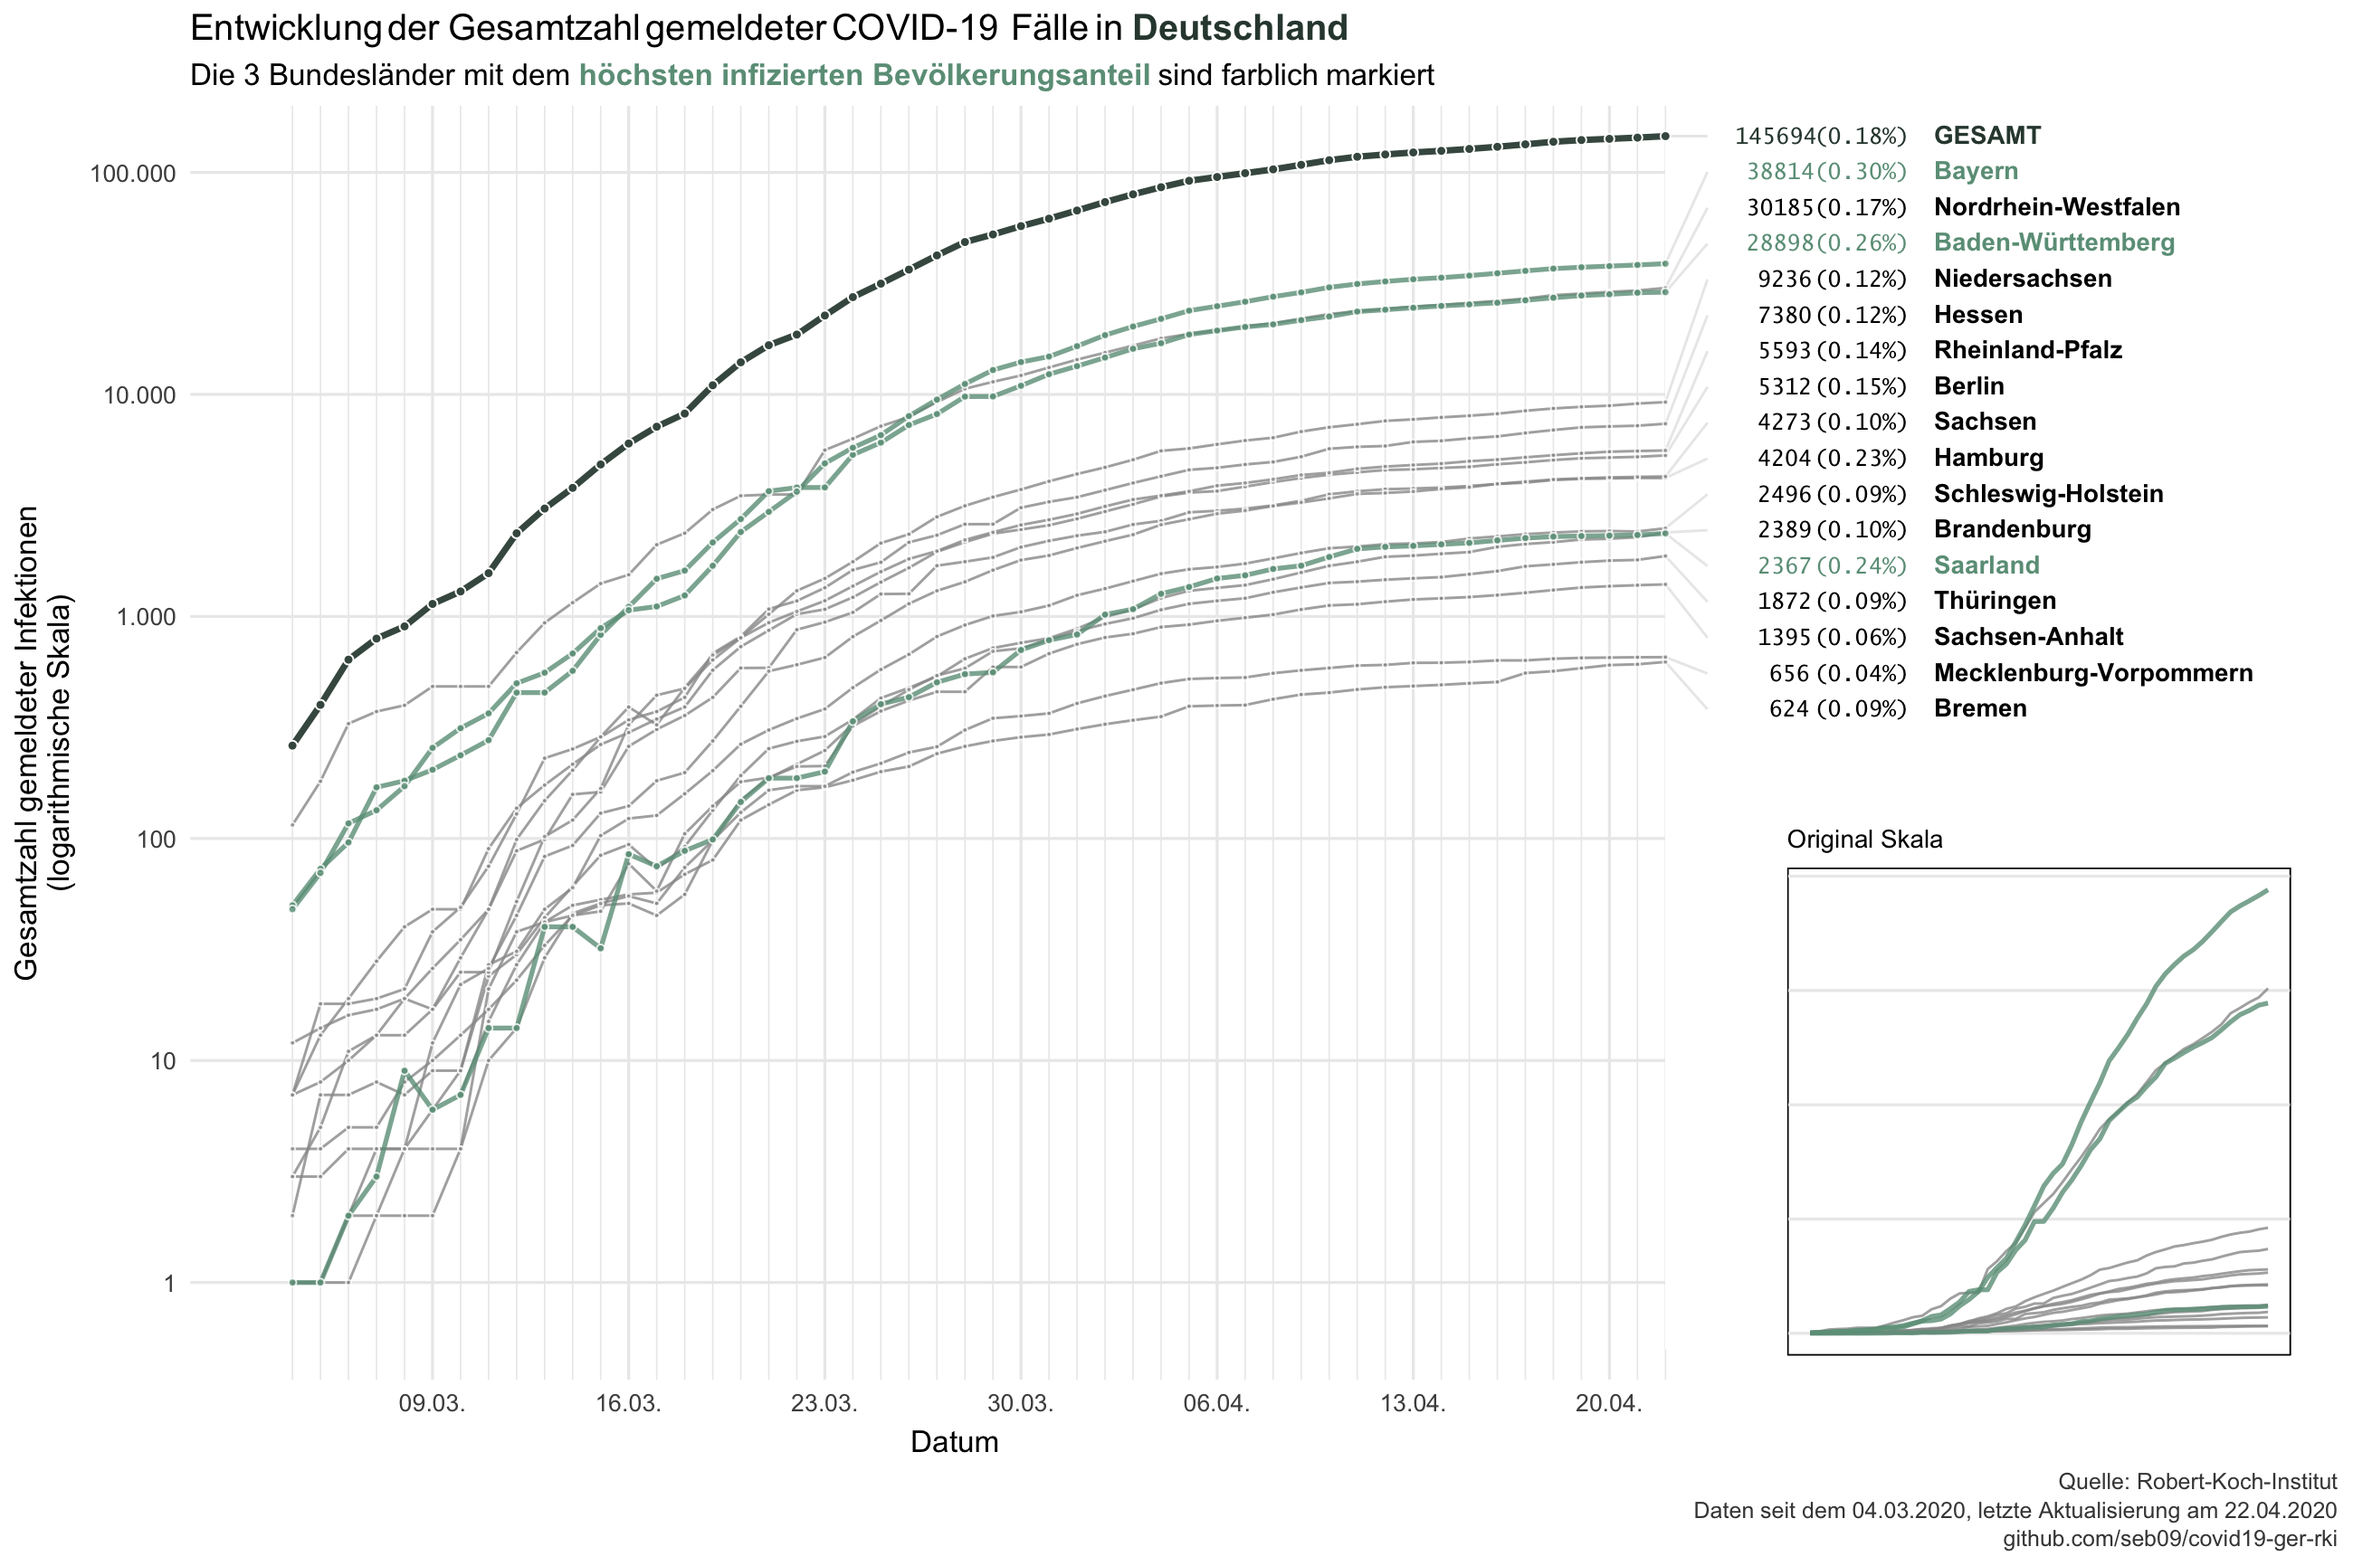
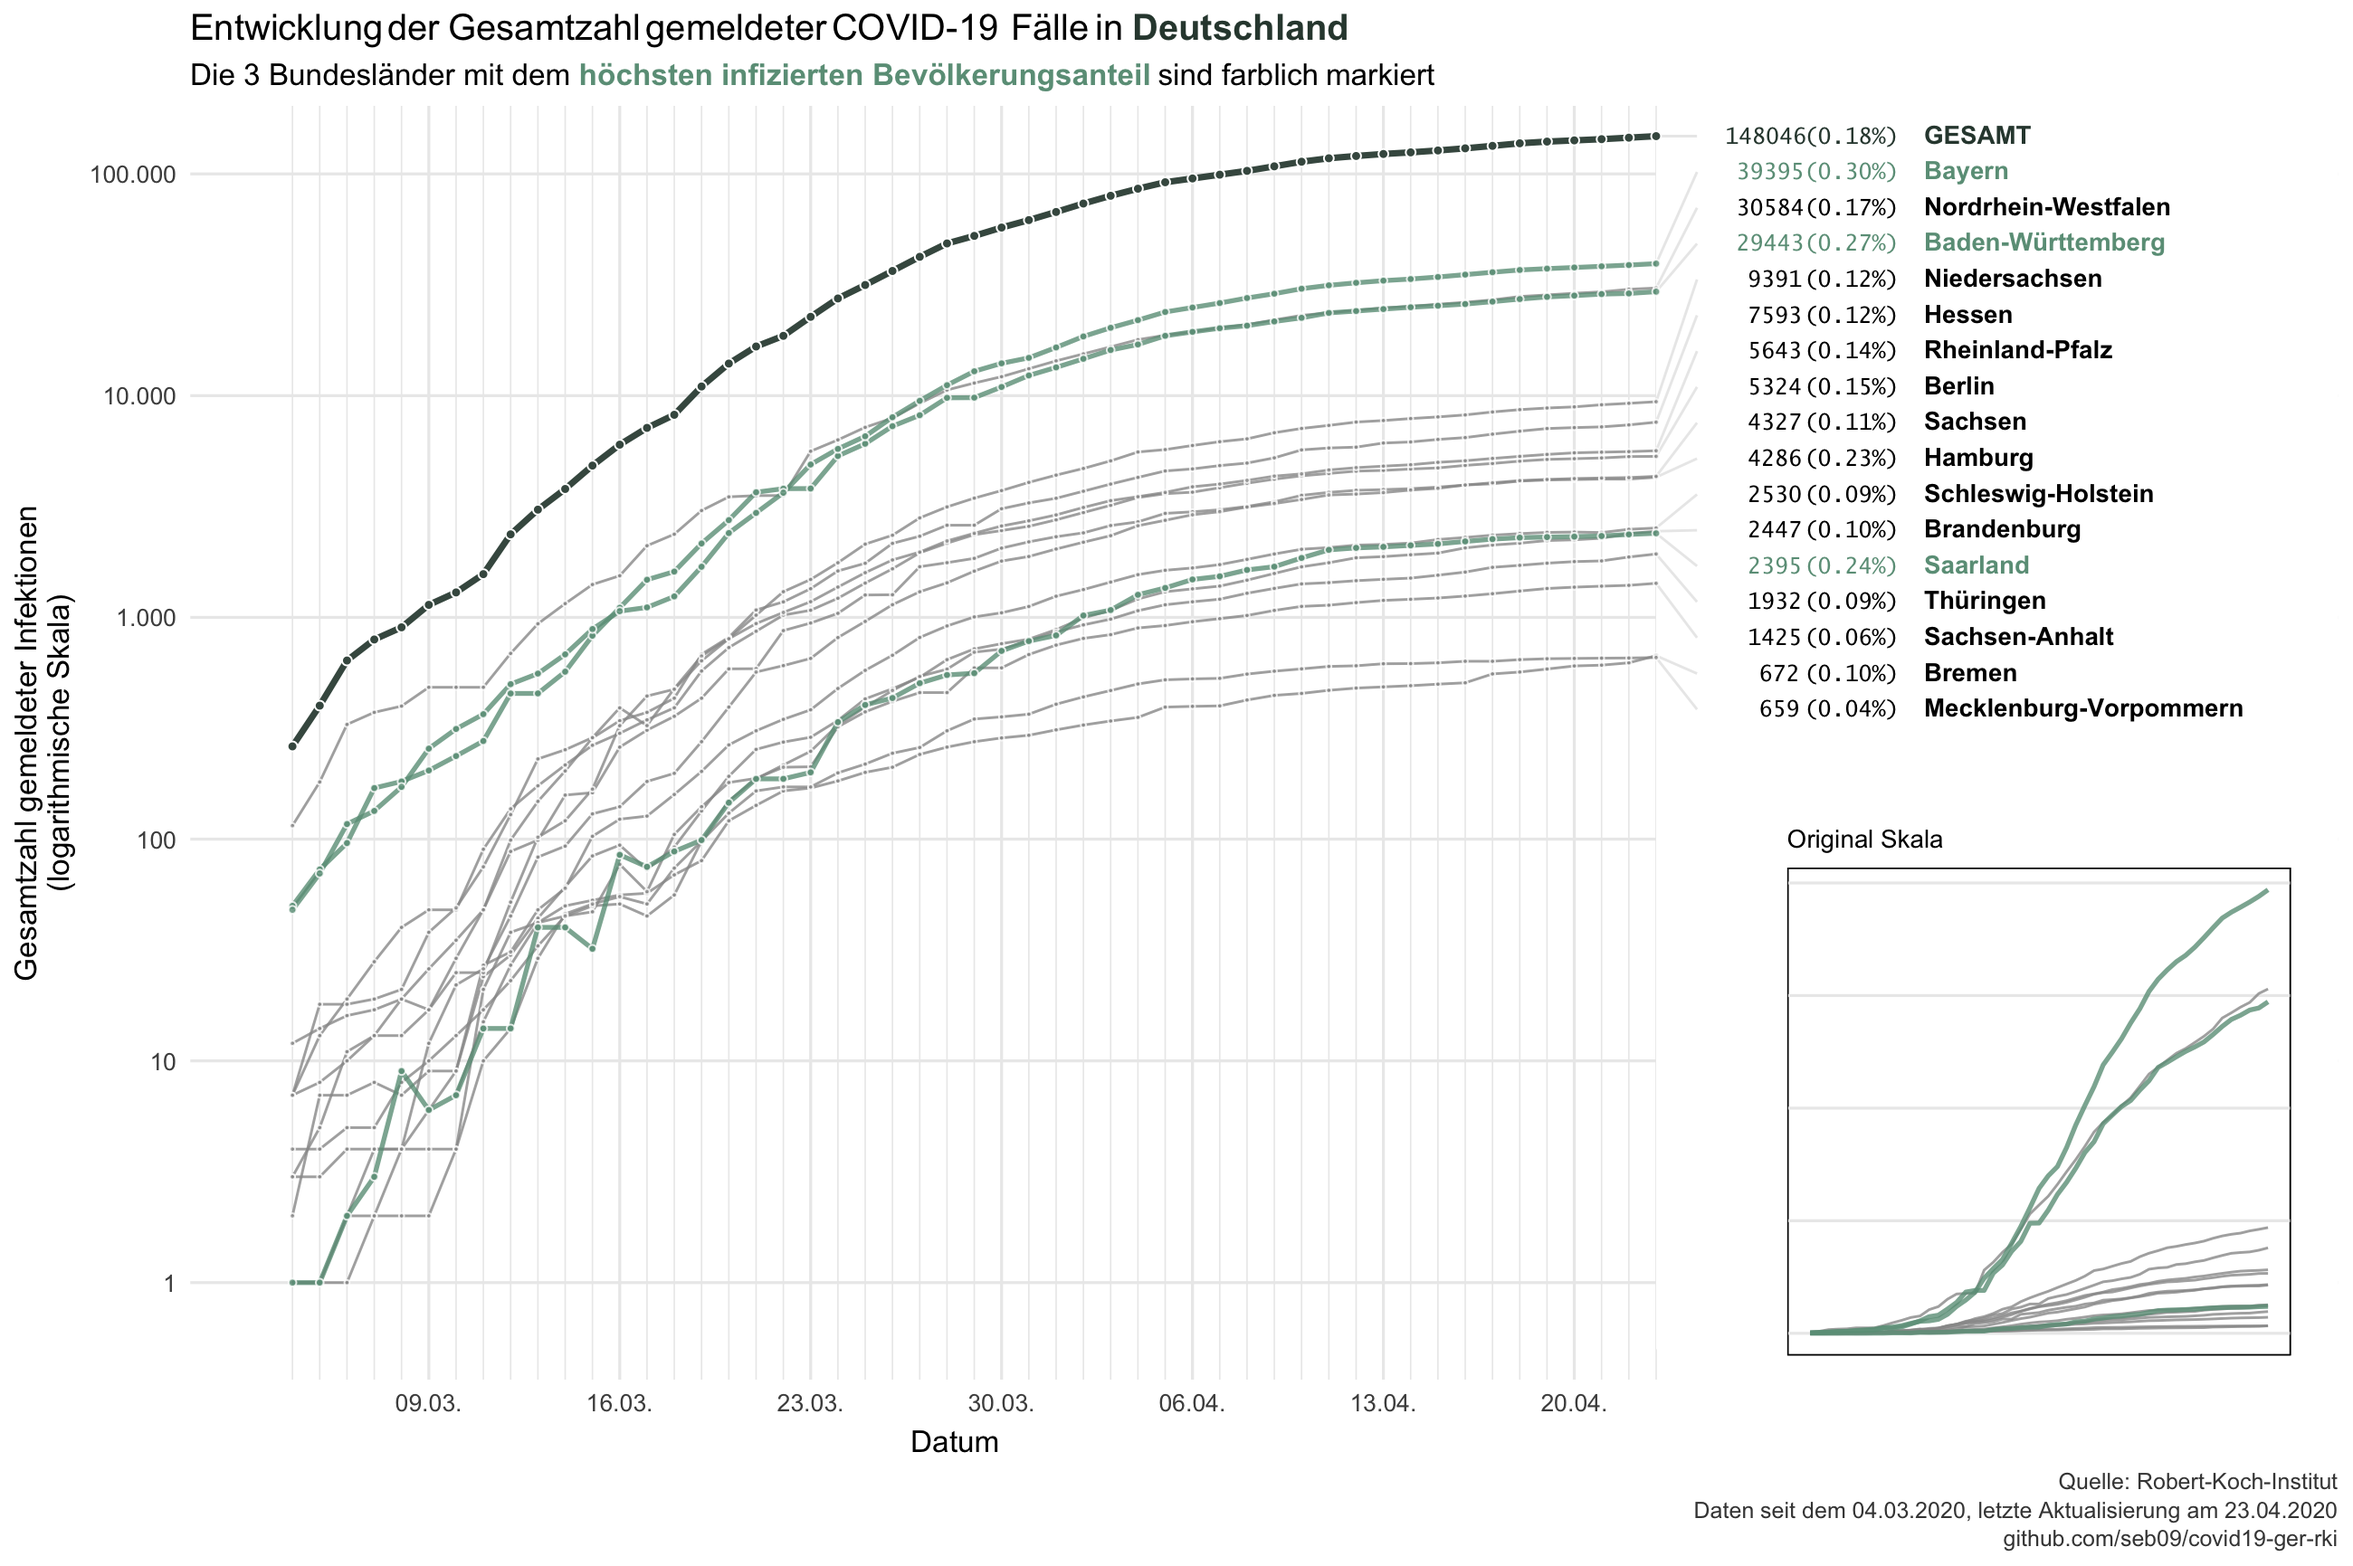
daily update 2020-04-23

diff --git a/README.md b/README.md
@@ -1,6 +1,6 @@
 Data from the Robert-Koch-Institut on COVID-19 in Germany
 ================
-Last update: 2020-04-22
+Last update: 2020-04-23
 
 This repository contains data on reported COVID-19 cases in Germany and
 its federal states that is published daily by the Robert-Koch-Institut
@@ -14,26 +14,26 @@ corona_rki %>%
   print(n = 16)
 ```
 
-    ## # A tibble: 794 x 6
+    ## # A tibble: 810 x 6
     ##    Datum      Bundesland      Fallzahl Todeszahl Fallzahl_neu Todeszahl_neu
     ##    <date>     <chr>              <dbl>     <dbl>        <dbl>         <dbl>
-    ##  1 2020-04-22 Baden-Württemb…    28898      1063          186            32
-    ##  2 2020-04-22 Bayern             38814      1424          504            88
-    ##  3 2020-04-22 Berlin              5312       105           75             8
-    ##  4 2020-04-22 Brandenburg         2389        74          114             7
-    ##  5 2020-04-22 Bremen               624        26           15             1
-    ##  6 2020-04-22 Hamburg             4204        91            0             0
-    ##  7 2020-04-22 Hessen              7380       265          149            14
-    ##  8 2020-04-22 Mecklenburg-Vo…      656        15            1             0
-    ##  9 2020-04-22 Niedersachsen       9236       328          138            22
-    ## 10 2020-04-22 Nordrhein-West…    30185       964          796            68
-    ## 11 2020-04-22 Rheinland-Pfalz     5593       122           32             6
-    ## 12 2020-04-22 Saarland            2367        97           39             4
-    ## 13 2020-04-22 Sachsen             4273       122           20             5
-    ## 14 2020-04-22 Sachsen-Anhalt      1395        33           12             1
-    ## 15 2020-04-22 Schleswig-Hols…     2496        79           82             9
-    ## 16 2020-04-22 Thüringen           1872        71           74            16
-    ## # … with 778 more rows
+    ##  1 2020-04-23 Baden-Württemb…    29443      1113          545            50
+    ##  2 2020-04-23 Bayern             39395      1476          581            52
+    ##  3 2020-04-23 Berlin              5324       105           12             0
+    ##  4 2020-04-23 Brandenburg         2447        84           58            10
+    ##  5 2020-04-23 Bremen               672        27           48             1
+    ##  6 2020-04-23 Hamburg             4286       113           82            22
+    ##  7 2020-04-23 Hessen              7593       286          213            21
+    ##  8 2020-04-23 Mecklenburg-Vo…      659        15            3             0
+    ##  9 2020-04-23 Niedersachsen       9391       340          155            12
+    ## 10 2020-04-23 Nordrhein-West…    30584       999          399            35
+    ## 11 2020-04-23 Rheinland-Pfalz     5643       131           50             9
+    ## 12 2020-04-23 Saarland            2395        99           28             2
+    ## 13 2020-04-23 Sachsen             4327       127           54             5
+    ## 14 2020-04-23 Sachsen-Anhalt      1425        34           30             1
+    ## 15 2020-04-23 Schleswig-Hols…     2530        84           34             5
+    ## 16 2020-04-23 Thüringen           1932        61           60           -10
+    ## # … with 794 more rows
 
 Data is downloaded each day at 11am from the [website of the
 RKI](https://www.rki.de/DE/Content/InfAZ/N/Neuartiges_Coronavirus/Fallzahlen.html)
